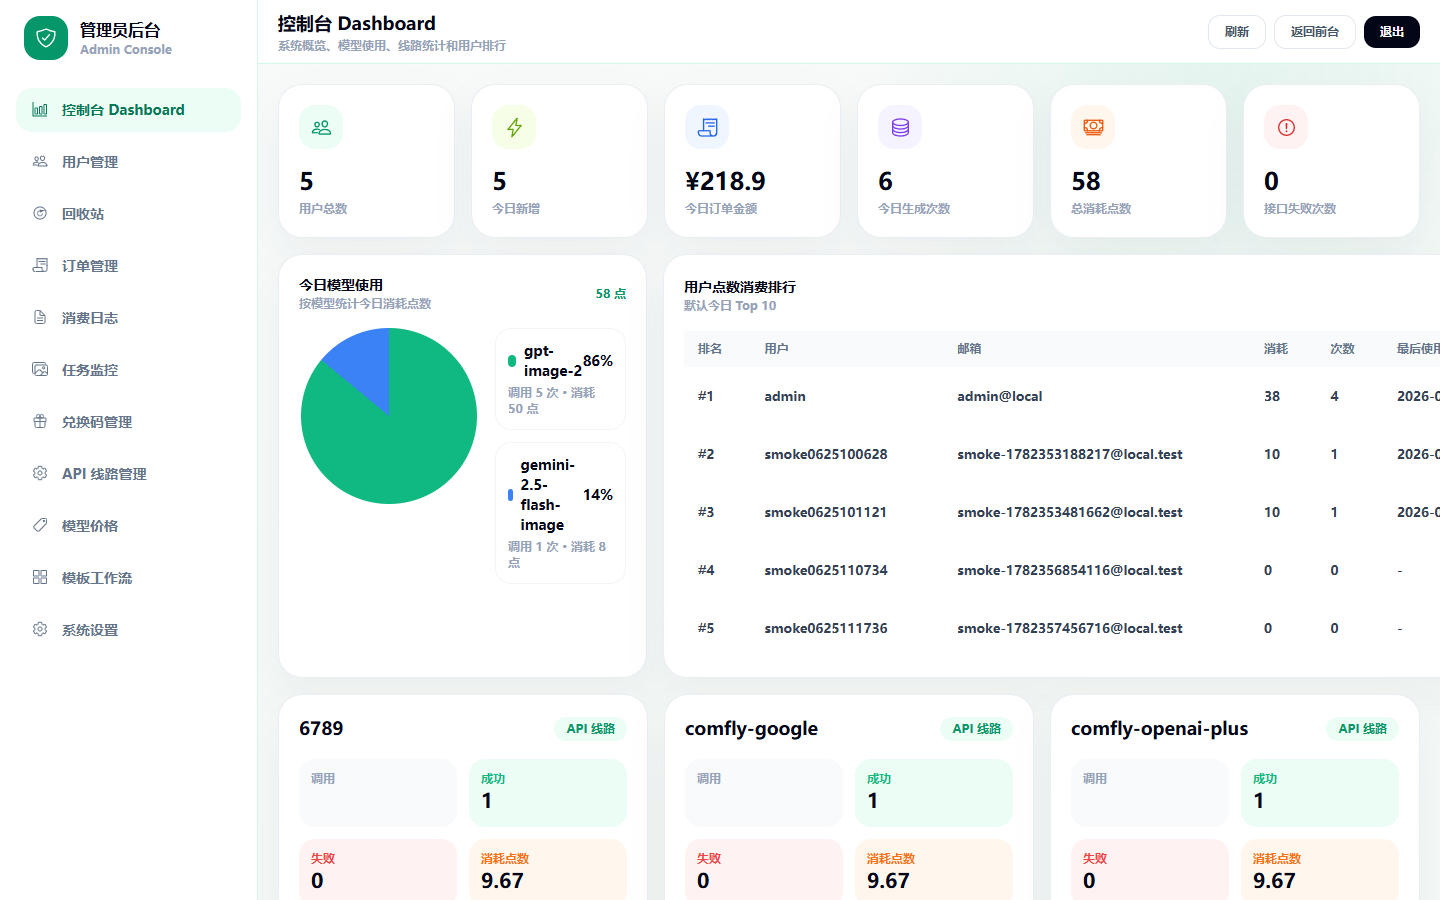
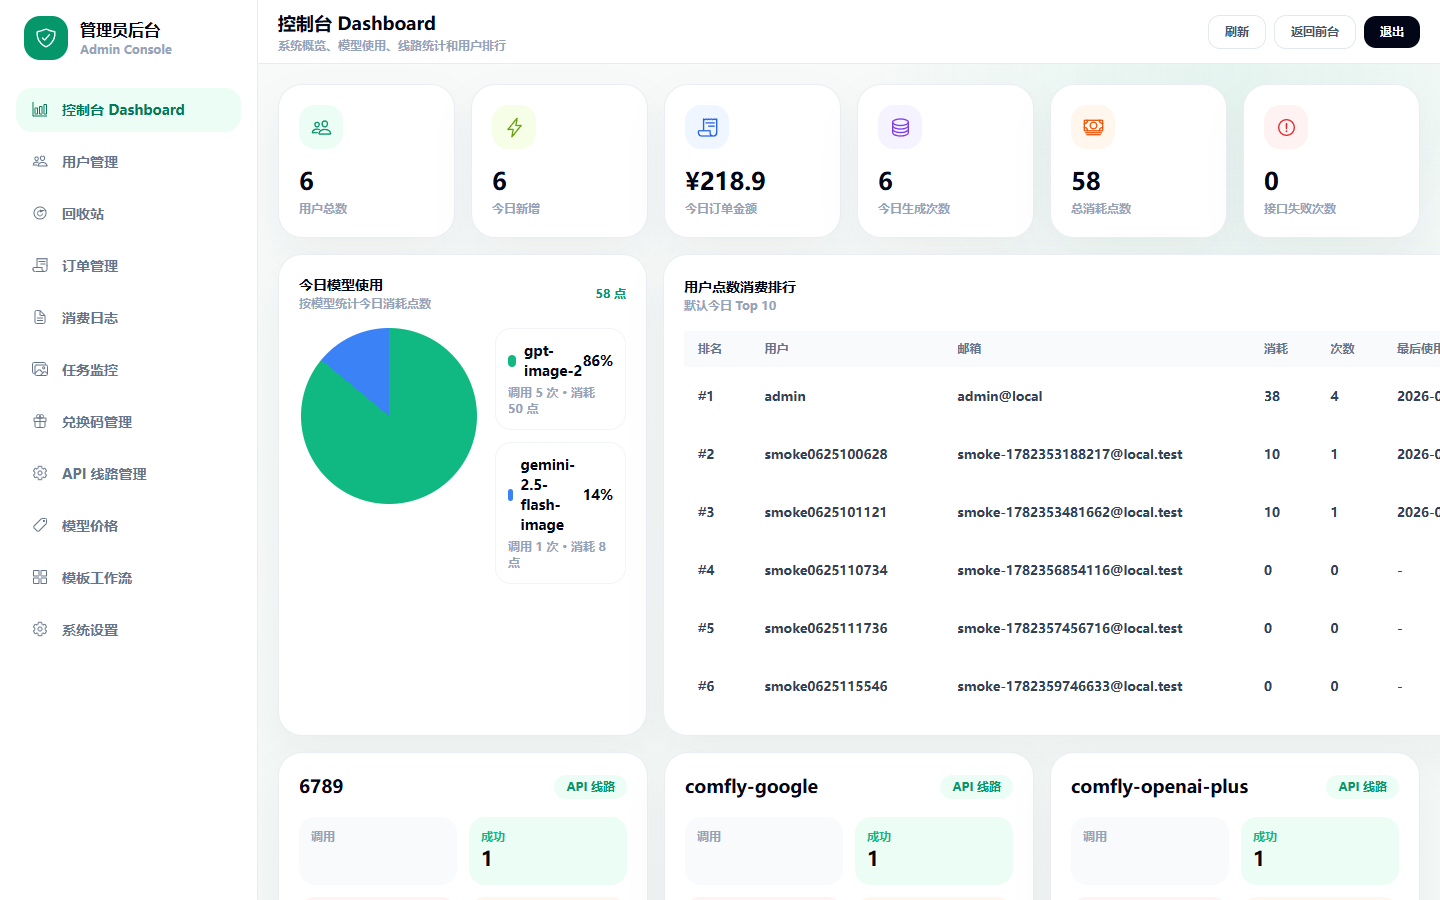
test: add disposable admin write smoke

diff --git a/docs/review-log.md b/docs/review-log.md
@@ -622,3 +622,19 @@
 - 后台删除/恢复确认还没有全部纳入自动化。
 - Dashboard 用户排行表在 1440 视口下仍偏宽，后续可单独做表格列压缩。
 - 后台视觉这轮只做复核和护栏，没有再改动已确认的画布卡片布局。
+
+## 2026-06-25 后台写入 Disposable Smoke 复核
+
+### 已确认
+
+- 新增 `scripts/smoke-admin-write-disposable.ps1`，默认使用临时端口 `4596` 和临时 SQLite。
+- 脚本会自动设置 `SMOKE_ALLOW_WRITES=true`，只允许后台写入 smoke 在临时库执行。
+- 已验证通过用户软删除、回收站恢复、永久匿名化，不会误删当前人工测试库中的真实数据。
+- 已验证兑换码创建/删除、API 线路创建/更新/删除、线路模型创建/更新/禁用/删除。
+- 已验证模板工作流和系统设置保存。
+- 临时服务结束后会停止 Node 进程，并清理临时目录。
+
+### 需要继续验证
+
+- 这是后端写入路径验证，不等同于前端确认弹窗手感验证。
+- 下一步仍需用浏览器点测后台用户删除、回收站恢复、永久删除的确认弹窗。

diff --git a/docs/progress-report.md b/docs/progress-report.md
@@ -447,3 +447,16 @@
 - 未完成清单：后台删除/恢复确认；兑换码成功/失败提示；首页/画布/用户中心移动端复核；Docker 容器状态复核；New-API 真实 token 后续接入。
 - 下一轮建议：继续后台删除/恢复和用户中心兑换码提示手感；然后做移动端关键页面截图。
 - 需要人工介入：你人工点测后台删除/恢复是否符合预期；打开 Docker Desktop 后复核容器。
+
+## 2026-06-25 后台写入 Disposable Smoke 进度报告
+
+- 分支：`codex/backend-platform`
+- 完成内容：新增 `scripts/smoke-admin-write-disposable.ps1`，在临时端口、临时 SQLite、临时 uploads/logs 下运行后台写入 smoke，并自动设置 `SMOKE_ALLOW_WRITES=true`；跑完停止临时服务并清理临时目录，避免污染当前 `3456` 人工测试数据。
+- 修改文件：`scripts/smoke-admin-write-disposable.ps1`、`docs/plans/2026-06-25-admin-frontend-backend-manual-test.md`、`docs/progress-report.md`、`docs/feature-completion-checklist.md`、`docs/review-log.md`
+- 验证方式：执行 `powershell -NoProfile -ExecutionPolicy Bypass -File scripts\smoke-admin-write-disposable.ps1`。
+- 验证结果：临时库后台写入 smoke 通过，覆盖管理员登录、注册测试用户、用户禁用、余额调整、安全检查、重置密码、软删除、回收站恢复、永久匿名化、订单关闭、兑换码创建/删除、API 线路创建/更新/测试/拉模型/设默认/删除、线路模型创建/更新/禁用/删除、模板工作流保存、系统设置保存。
+- 当前完成度：首页约 74%，模板约 91%，图库约 88%，用户中心约 86%，后台约 97%，后端平台护栏约 82%，测试护栏约 90%，部署护栏约 92%。
+- 新发现问题：后台删除/恢复的后端路径已经有一次性库保护验证，但前端确认弹窗和手感仍需要人工点测；原 `scripts/smoke-admin-write.ps1` 仍保持默认拒绝写入，避免误跑当前人工库。
+- 未完成清单：后台删除/恢复前端确认弹窗；兑换码成功/失败提示；移动端关键页面截图；Docker 容器状态复核；New-API 真实 token 后续接入。
+- 下一轮建议：用内置浏览器补后台删除/恢复前端确认弹窗截图，随后补用户中心兑换码成功/失败提示。
+- 需要人工介入：打开 Docker Desktop 后复核容器；人工确认后台删除/恢复交互是否符合预期。

diff --git a/docs/plans/2026-06-25-admin-frontend-backend-manual-test.md b/docs/plans/2026-06-25-admin-frontend-backend-manual-test.md
@@ -42,6 +42,8 @@ node --check assets/home-carousel-inertia.js
 powershell -NoProfile -ExecutionPolicy Bypass -File scripts\smoke-frontend-routes.ps1
 powershell -NoProfile -ExecutionPolicy Bypass -File scripts\smoke-api.ps1
 powershell -NoProfile -ExecutionPolicy Bypass -File scripts\smoke-api-disposable.ps1
+powershell -NoProfile -ExecutionPolicy Bypass -File scripts\smoke-admin-write-disposable.ps1
+powershell -NoProfile -ExecutionPolicy Bypass -File scripts\smoke-admin-ui.ps1
 Invoke-RestMethod http://127.0.0.1:3456/api/health
 docker compose -f docker-compose.internal.yml ps
 git status --short --branch
@@ -63,5 +65,6 @@ git status --short --branch
 - 已完成：模板反推接口补齐 `rawText/prompts` 兼容字段，接口层可返回 3 条提示词。
 - 已完成：模板真实上传素材后的 UI 闭环已用 Playwright 验证，能上传 2 张素材、反推 3 条提示词、生成 1 张 mock 结果并写入图库历史。
 - 已完成：后台内置浏览器 10 页截图复核；后台 UI smoke 已覆盖系统设置保存、API 线路新增弹窗、兑换码创建弹窗、模板工作流保存。
-- 进行中：后台删除/恢复确认仍需人工逐页点测。
+- 已完成：新增后台写入 disposable smoke，在临时 SQLite 中验证用户软删除、回收站恢复、永久匿名化、兑换码增删、API 线路/模型增删、模板工作流和系统设置保存。
+- 进行中：后台删除/恢复的前端确认弹窗仍需人工逐页点测。
 - 待复核：Docker Desktop 打开后执行 `docker compose -f docker-compose.internal.yml ps`。

diff --git a/docs/feature-completion-checklist.md b/docs/feature-completion-checklist.md
@@ -9,9 +9,9 @@
 | 模板 | 待复核 | 91% | 模板页可加载 10 个模板并切换主图模板；素材槽、提示词输入、反推、生成、任务队列和结果区可见；反推接口已补齐 `rawText/prompts` 兼容字段；独立 Playwright 已验证上传 2 张图片后反推 3 条提示词、生成 1 张 mock 结果，并写入 `/api/user/generations`。 | 你再人工点一次上传/生成手感；后续接 New-API 后复测真实生图。 |
 | 图库 | 进行中 | 88% | 首页和模板页图库入口已截图复核，并复用 `/api/user/generations` 同步后端历史；图库删除已从前端临时移除改为后端持久删除，刷新后不会复活；保存链接和保存全部链接已可复制到剪贴板；smoke 已覆盖模板生成后历史读取和删除。 | 验证多图和空状态恢复。 |
 | 用户中心 | 进行中 | 86% | 真实表单登录后用户中心显示用户资料、余额、兑换码和 API 线路；画布内用户中心侧栏标题颜色已统一；独立用户中心 `/user/records` 已补真实生成记录和余额流水，`/user/redeem` 已补后端兑换提交入口；头像随机保存和头像文件上传均已验证会写回后端 profile。 | 验证兑换码成功/失败提示和移动端排版。 |
-| 后台 | 待复核 | 96% | 已归档 10 个后台页面桌面截图；Dashboard 兼容字段和模型占比已修；后台表格密度、卡片阴影、按钮字距、图标线宽、API 线路操作列和任务监控提示词显示已统一；新增后台 UI smoke，已验证系统设置保存、API 线路新增弹窗、兑换码创建弹窗、模板工作流保存并归档交互截图。 | 继续人工浏览器验收删除/恢复确认、复杂表单回显；Dashboard 右侧排行表仍可继续做宽度细化。 |
+| 后台 | 待复核 | 97% | 已归档 10 个后台页面桌面截图；Dashboard 兼容字段和模型占比已修；后台表格密度、卡片阴影、按钮字距、图标线宽、API 线路操作列和任务监控提示词显示已统一；后台 UI smoke 已验证系统设置保存、API 线路新增弹窗、兑换码创建弹窗、模板工作流保存；后台写入 disposable smoke 已验证用户软删除、回收站恢复、永久匿名化、兑换码增删、API 线路/模型增删。 | 继续人工浏览器验收删除/恢复确认弹窗和复杂表单回显；Dashboard 右侧排行表仍可继续做宽度细化。 |
 | 部署 | 待复核 | 92% | Docker CLI/Compose/Engine 已确认可用；使用 `node:20-bookworm` 完成镜像构建并启动容器；`/api/health` 返回 mock、database ok，首页 200；容器重启后 SQLite 表数量保留；当前路线仍是先内网测试、稳定后服务器部署。 | 人工浏览器测试 Docker 服务，后续再做服务器/Nginx/HTTPS 部署演练。 |
 | New-API | 骨架完成 | 72% | Provider Adapter 默认 New-API，未配置 key 时 mock 回落；后台 API 线路新增已能保留 displayName、Base URL、接口格式等 New-API 配置字段。 | 使用真实 New-API token 做联通测试。 |
 | CPA | 待实现 | 20% | 只作为 New-API 后置渠道写入架构边界，本项目不直接管理。 | 等 New-API 部署后配置渠道。 |
-| 测试护栏 | 进行中 | 88% | 已有前端路由 smoke、API smoke、后台写入 smoke；新增 `scripts/smoke-api-disposable.ps1`，可用临时端口和一次性 SQLite 跑完整 API smoke，避免污染人工测试库；新增 `scripts/smoke-admin-ui.ps1` 和 runner，覆盖后台关键保存/弹窗交互并产出截图。 | 后续把 Docker 验证和更多前端交互继续接入统一 preflight。 |
+| 测试护栏 | 进行中 | 90% | 已有前端路由 smoke、API smoke、后台 UI smoke；新增 `scripts/smoke-api-disposable.ps1`，可用临时端口和一次性 SQLite 跑完整 API smoke，避免污染人工测试库；新增 `scripts/smoke-admin-write-disposable.ps1`，安全覆盖后台删除/恢复/增删改写入；新增 `scripts/smoke-admin-ui.ps1` 和 runner，覆盖后台关键保存/弹窗交互并产出截图。 | 后续把 Docker 验证和更多前端交互继续接入统一 preflight。 |
 | 文档审查 | 进行中 | 99% | 已建立进度报告、功能清单、review log、轻量平台 ADR、每轮推进复核清单；已新增 2026-06-25 前后端与后台视觉人工可测计划，并归档后台与前端截图；本轮追加后台内置浏览器截图和 UI smoke 交互记录。 | 每轮推进持续追加，并按 `docs/iteration-review-checklist.md` 收尾。 |